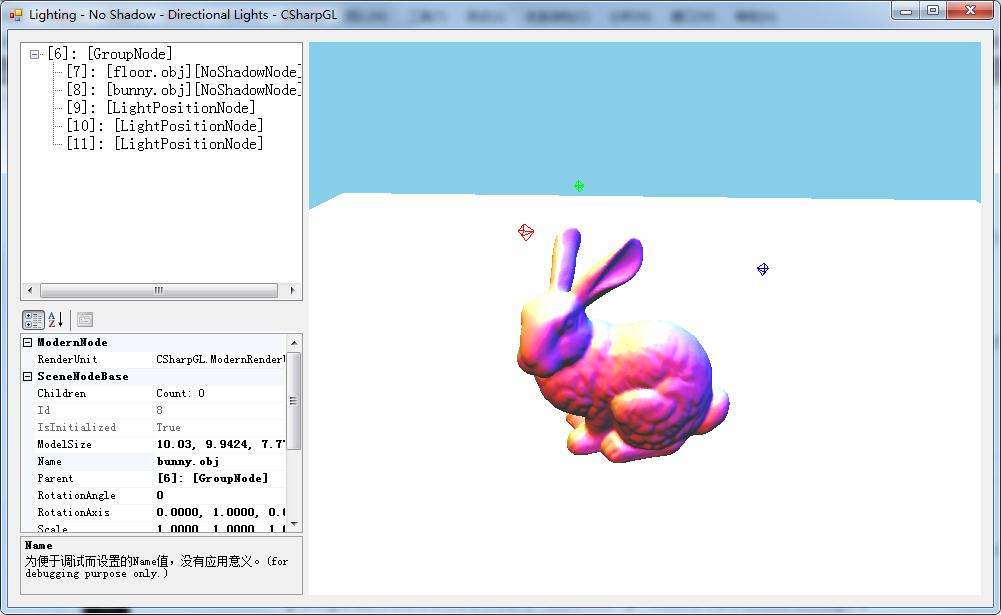
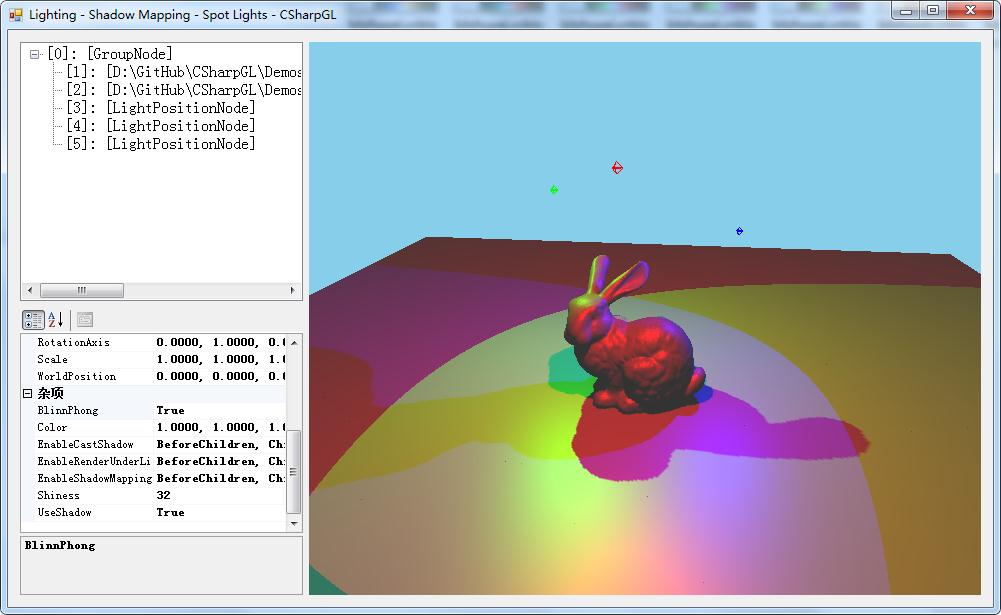
update readme.

diff --git a/Demos/Lighting.ShadowMapping/FormMain.cs b/Demos/Lighting.ShadowMapping/FormMain.cs
@@ -48,13 +48,11 @@ namespace Lighting.ShadowMapping
                     this.scene.RootNode.Children.Add(node);
                 }
             }
+
             var list = new ActionList();
-            var transformAction = new TransformAction(scene.RootNode);
-            list.Add(transformAction);
-            var shadowMappingAction = new ShadowMappingAction(scene);
-            list.Add(shadowMappingAction);
-            var renderAction = new RenderAction(scene);
-            list.Add(renderAction);
+            list.Add(new TransformAction(scene.RootNode));
+            list.Add(new ShadowMappingAction(scene));
+            list.Add(new RenderAction(scene));
             this.actionList = list;
 
             Match(this.trvScene, scene.RootNode);
@@ -62,6 +60,7 @@ namespace Lighting.ShadowMapping
 
             var manipulater = new FirstPerspectiveManipulater();
             manipulater.Bind(camera, this.winGLCanvas1);
+
         }
 
         private void Match(TreeView treeView, SceneNodeBase nodeBase)

diff --git a/CSharpGL/Scene/Algorithms/Actions/3DWorld/ShadowMappingAction.cs b/CSharpGL/Scene/Algorithms/Actions/3DWorld/ShadowMappingAction.cs
@@ -16,6 +16,11 @@ namespace CSharpGL
         private readonly BlendState blend = new BlendState(BlendingSourceFactor.One, BlendingDestinationFactor.One);
         private LightEquipment lightEquipment = new LightEquipment();
 
+        public LightEquipment LightEquipment
+        {
+            get { return lightEquipment; }
+        }
+
         private Scene scene;
 
         /// <summary>
@@ -63,7 +68,7 @@ namespace CSharpGL
 
                 // light up the scene with specified light.
                 {
-                    var arg = new ShadowMappingUnderLightEventArgs(param, scene.Camera, this.lightEquipment.ShadowMap, light);
+                    var arg = new ShadowMappingUnderLightEventArgs(param, scene.Camera, this.lightEquipment.BindingTexture, light);
                     this.blend.On();
                     RenderUnderLight(this.scene.RootNode, arg);
                     this.blend.Off();

diff --git a/CSharpGL/Scene/Algorithms/Actions/3DWorld/LightEquipment.cs b/CSharpGL/Scene/Algorithms/Actions/3DWorld/LightEquipment.cs
@@ -10,7 +10,7 @@ namespace CSharpGL
     /// <summary>
     /// 
     /// </summary>
-    public class LightEquipment
+    public class LightEquipment : ITextureSource
     {
         private readonly IFramebufferProvider framebufferProvider = new DepthFramebufferProvider();
         private readonly PolygonOffsetFillState state = new PolygonOffsetFillState(false);// TODO: other offsets also needed?
@@ -55,9 +55,16 @@ namespace CSharpGL
             framebuffer.Unbind();
         }
 
+        #region ITextureSource 成员
+
         /// <summary>
         /// The texture that records shadow caused by some light.
         /// </summary>
-        public Texture ShadowMap { get { return this.framebufferProvider.BindingTexture; } }
+        public Texture BindingTexture
+        {
+            get { return this.framebufferProvider.BindingTexture; }
+        }
+
+        #endregion
     }
 }

diff --git a/CSharpGL/Scene/Lights/SpotLight.cs b/CSharpGL/Scene/Lights/SpotLight.cs
@@ -25,7 +25,7 @@ namespace CSharpGL
         /// </summary>
         /// <param name="position">light's position.</param>
         /// <param name="target">Where this spot light looks at.</param>
-        /// <param name="cutOff">Cos(angle). angle ranges in [0, 90].</param>
+        /// <param name="cutOff">Cos(angle). angle ranges in [0, 90]. Spot light's full angle ranges in [0, 180].</param>
         /// <param name="attenuation"></param>
         public SpotLight(vec3 position, vec3 target, float cutOff, Attenuation attenuation = null)
             : base(attenuation == null ? new Attenuation(1.0f, 0.0f, 0.0f) : attenuation)

diff --git a/Demos/Lighting.ShadowMapping/readme.md b/Demos/Lighting.ShadowMapping/readme.md
@@ -1,2 +1,2 @@
-# ImageProcessing.GrayFilter
-![ImageProcessing.GrayFilter](https://github.com/bitzhuwei/CSharpGL/blob/master/Demos/ImageProcessing.GrayFilter/ImageProcessing.GrayFilter.png?raw=true)
+# Lighting.ShadowMapping.
+![Lighting.ShadowMapping](https://github.com/bitzhuwei/CSharpGL/blob/master/Demos/Lighting.ShadowMapping/Lighting.ShadowMapping.png?raw=true)
